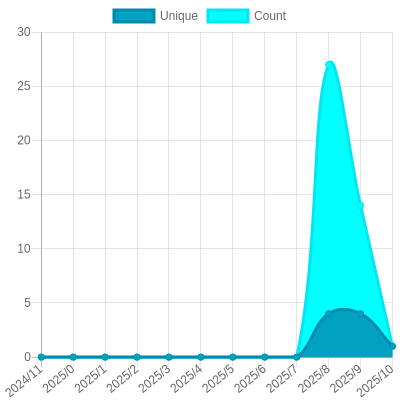
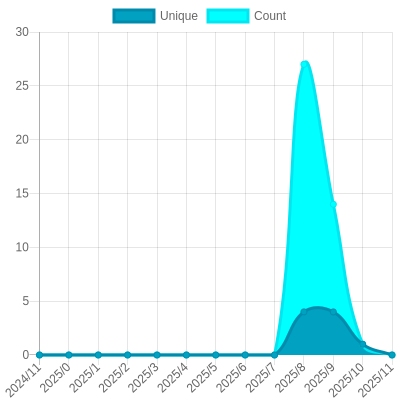
Update views

Changed region(s): [[0.0, 0.09, 0.99, 1.0], [0.03, 0.06, 0.09, 0.09]]

diff --git a/README.md b/README.md
@@ -26,7 +26,7 @@ The project created and maintained by [gayanvoice](https://github.com/gayanvoice
 			</a>
 		</td>
 		<td>
-			2024/11/29 12:39 AM UTC
+			2024/11/30 12:38 AM UTC
 		</td>
 		<td>
 			10
@@ -37,7 +37,7 @@ The project created and maintained by [gayanvoice](https://github.com/gayanvoice
 	</tr>
 </table>
 
-<small><i>Last updated on 2024/12/1 6:09 PM UTC</i></small>
+<small><i>Last updated on 2024/12/2 12:42 AM UTC</i></small>
 
 ## ✂Copy and 📋 Paste
 ### Total Views Badge

diff --git a/readme/320593293/year.md b/readme/320593293/year.md
@@ -20,6 +20,17 @@
 	</tr>
 	<tr>
 		<td>
+			<code>2024/12/1</code>
+		</td>
+		<td>
+			<code>0</code>
+		</td>
+		<td>
+			<code>0</code>
+		</td>
+	</tr>
+	<tr>
+		<td>
 			<code>2024/11/1</code>
 		</td>
 		<td>
@@ -153,7 +164,7 @@
 </table>
 
 </details>
-<small><i>Last updated on 2024/12/1 6:09 PM UTC</i></small>
+<small><i>Last updated on 2024/12/2 12:41 AM UTC</i></small>
 
 ## ✂Copy and 📋 Paste
 ### SVG Badge
